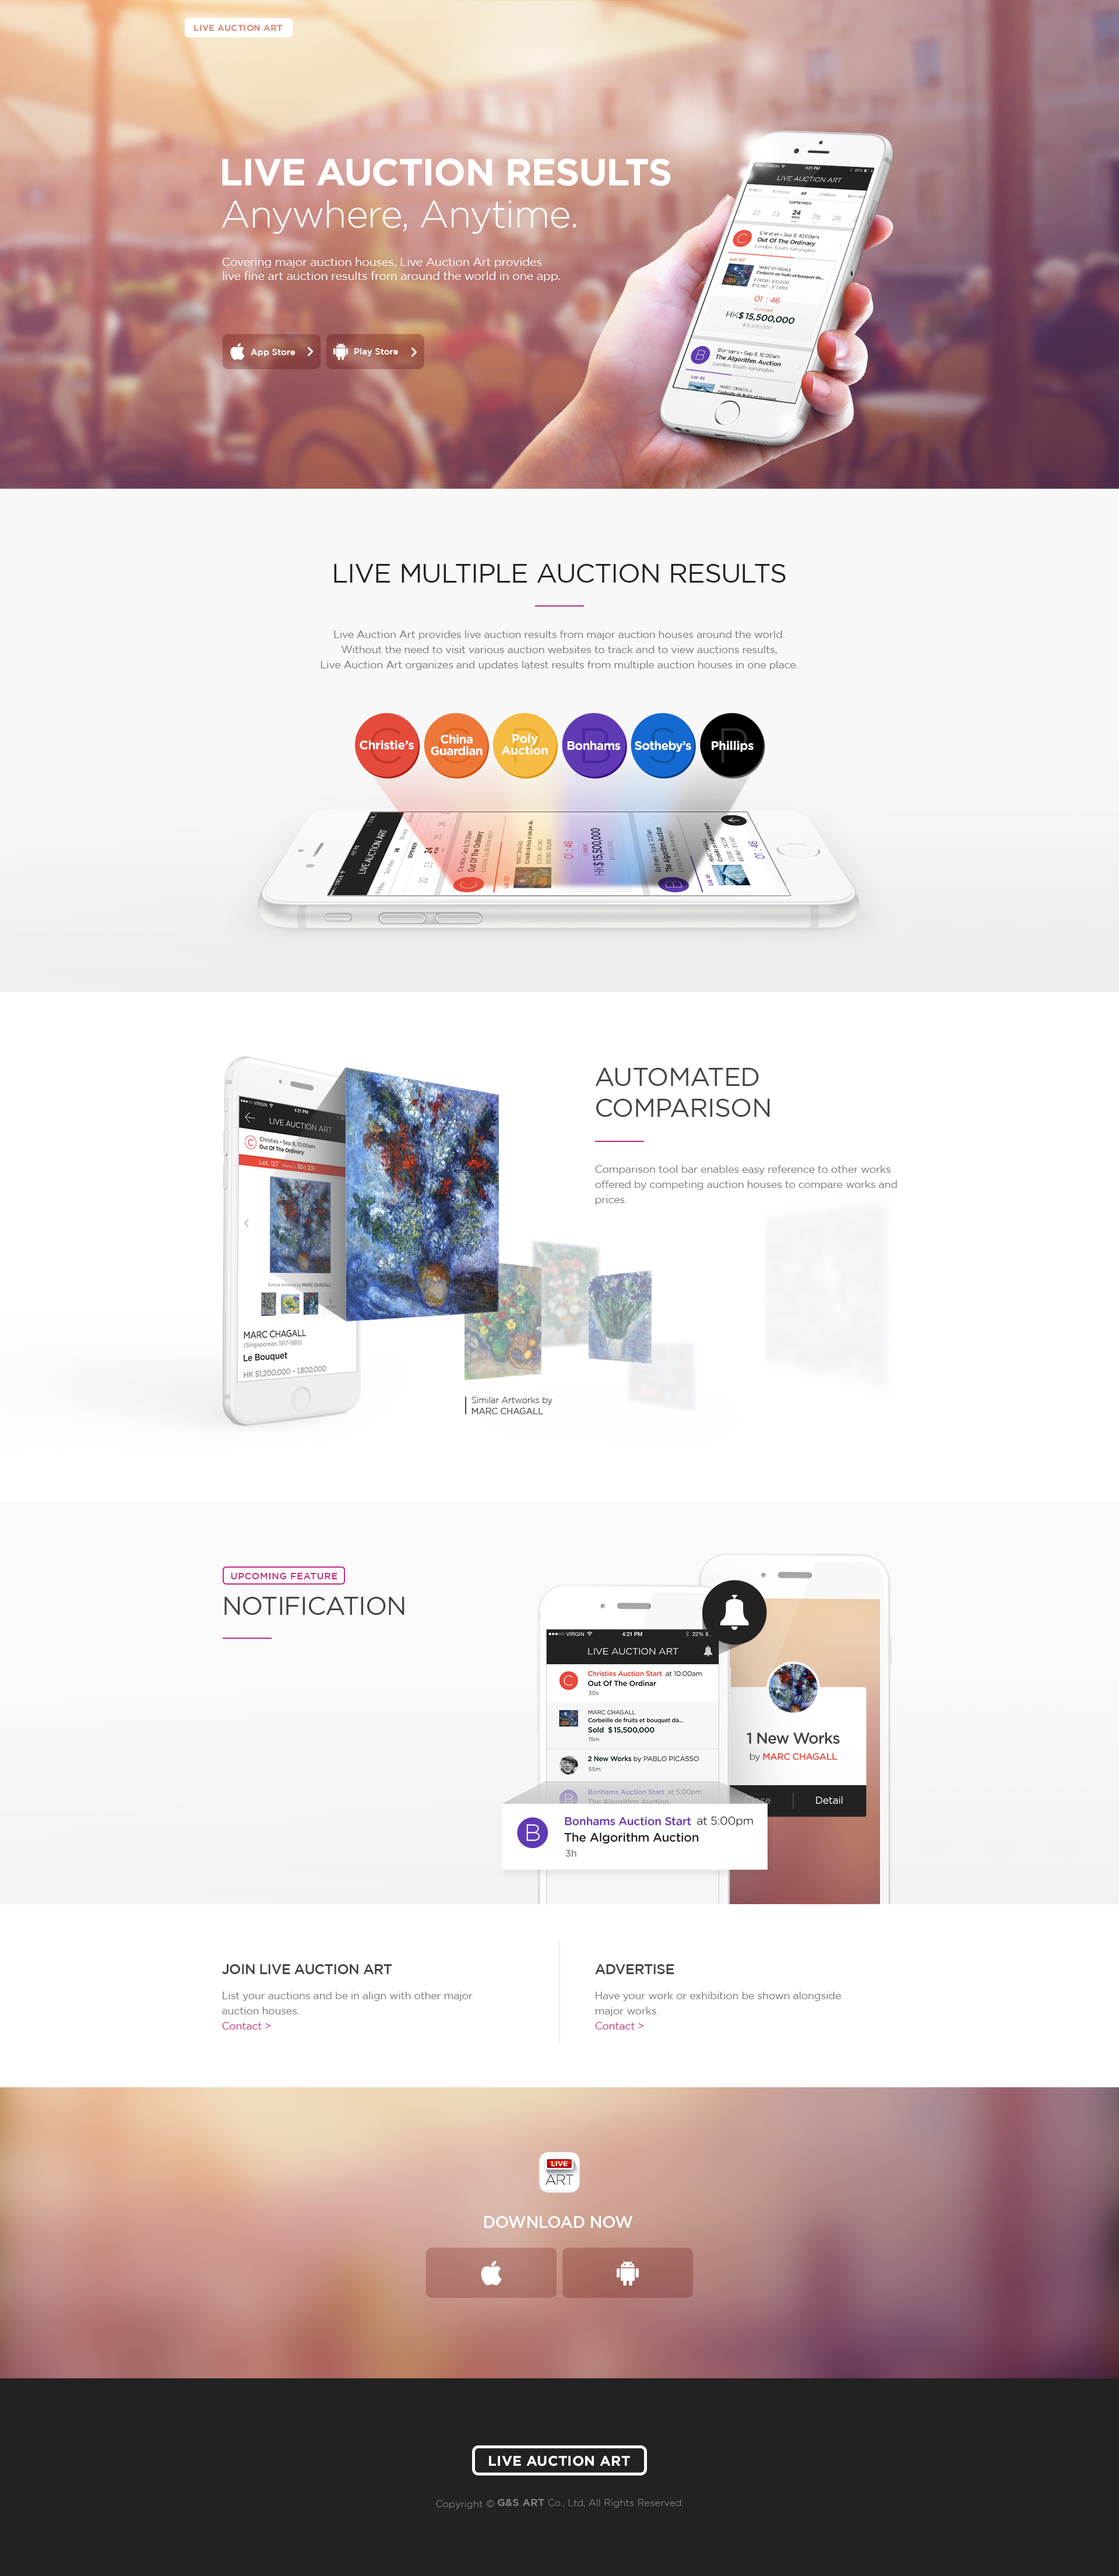
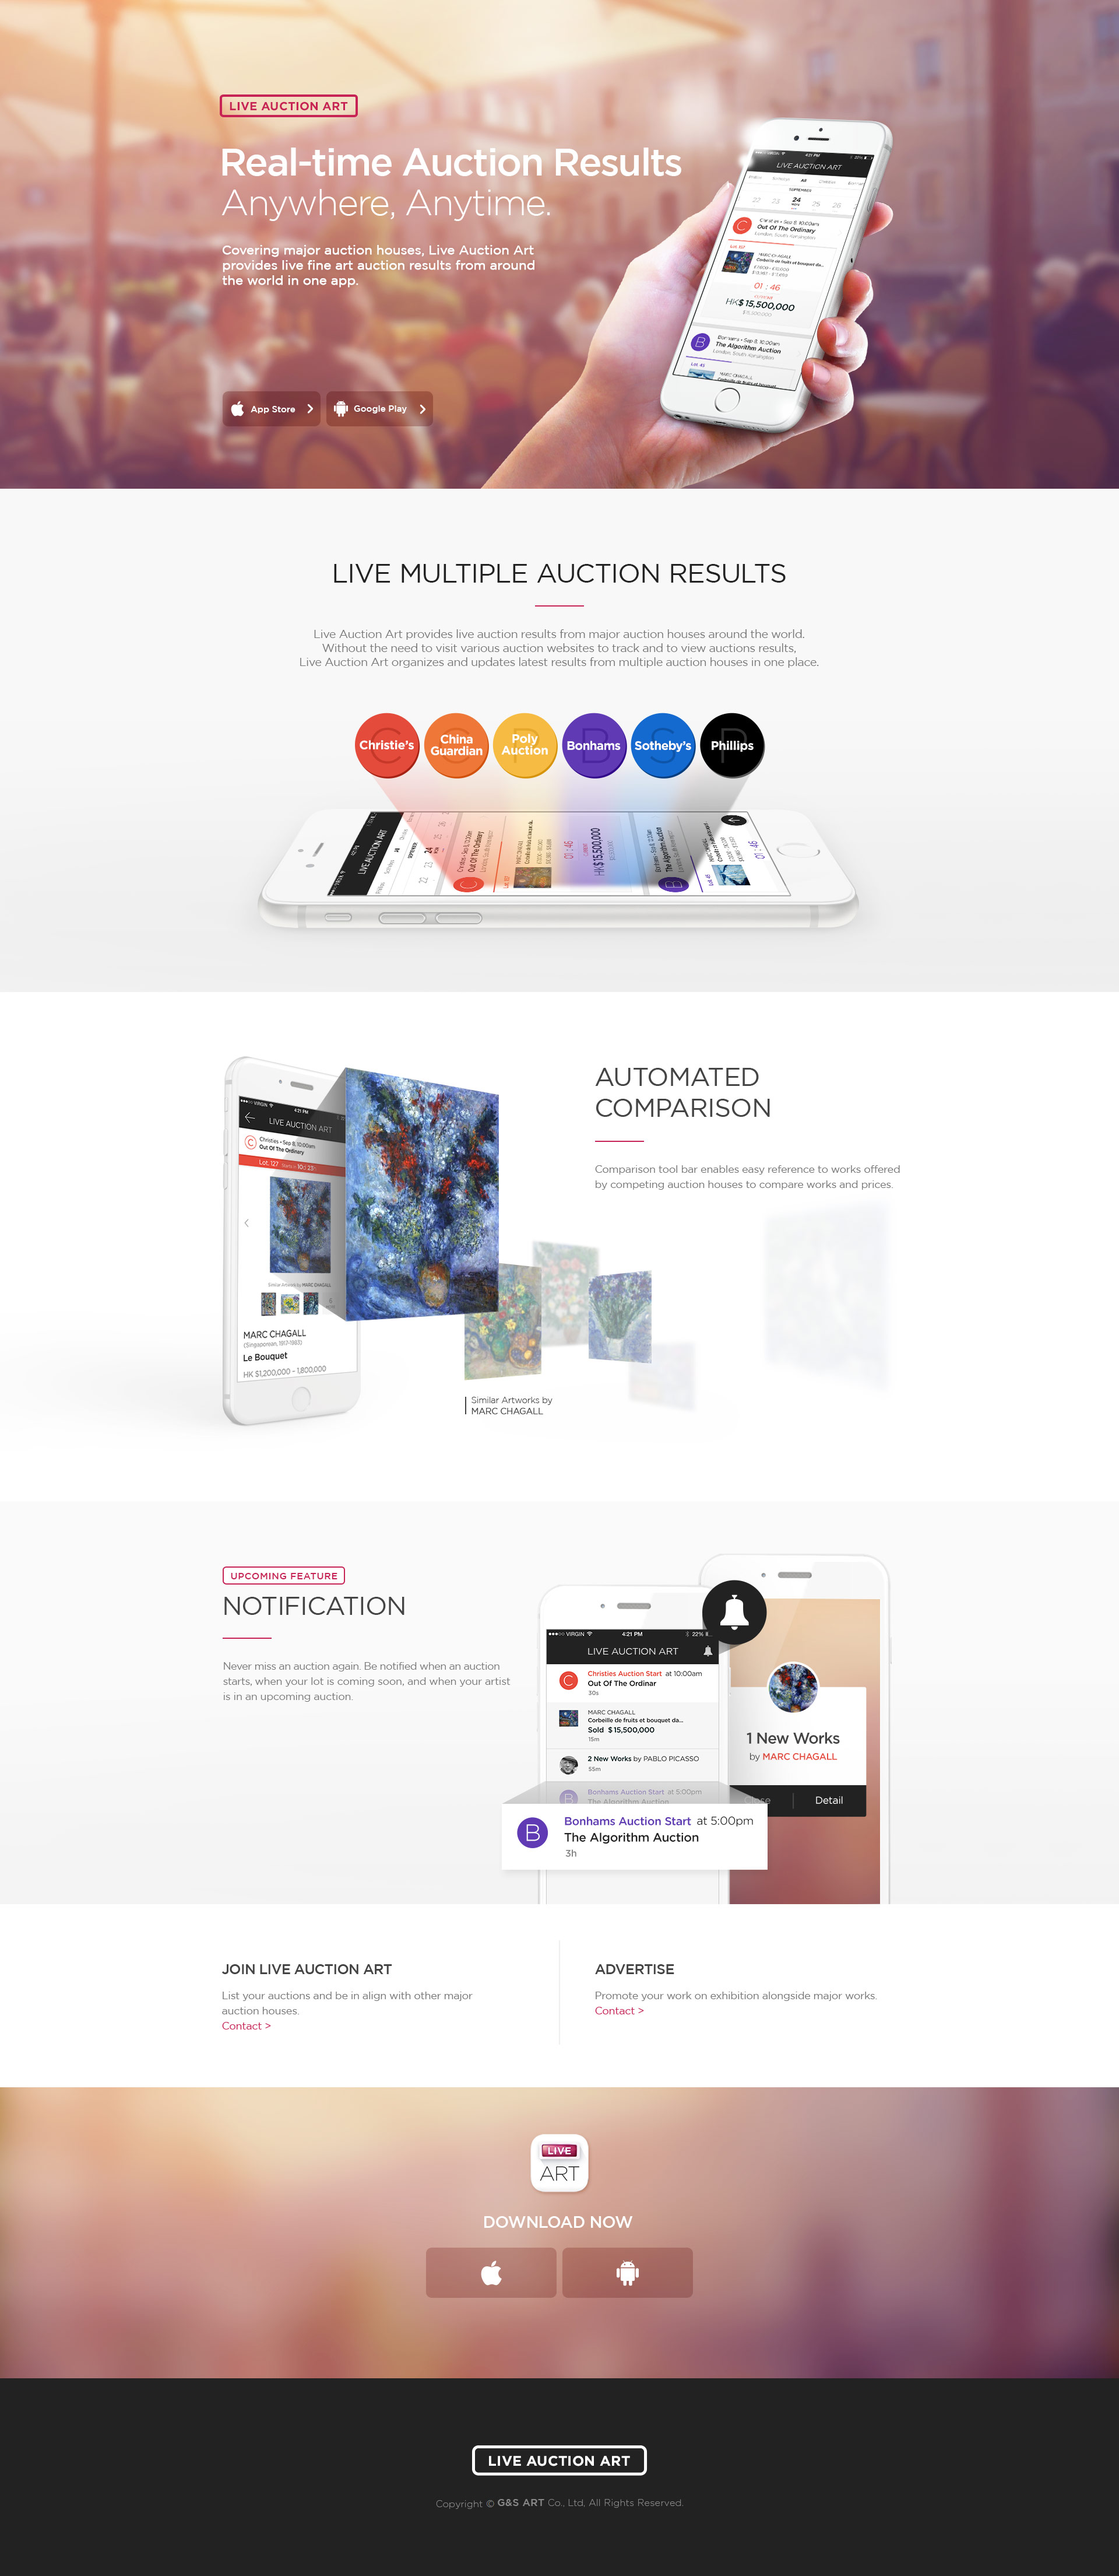
live auction art info

diff --git a/liveapp_info/live-auction-art/css/style.css b/liveapp_info/live-auction-art/css/style.css
@@ -25,27 +25,27 @@
     src:url('../fonts/gotham-bold.woff') format('woff'), local(arial);
 }
 
+/*body {*/
+    /*background: transparent url("../images/bg_temp.jpg") no-repeat center top;*/
+/*}*/
 
 .container-fluid {
     padding:0;
 }
 
-.logo,
-.logo:hover,
-.logo:active,
-.logo:visited {
+.logo {
+    font-family:'gt';
+    font-weight:700;
     display: inline-block;
-    margin: 30px 0;
-    padding: 10px 17px;
-    font-weight: bold;
-    font-size: 100%;
+    margin: 30px 0 50px 0;
+    padding: 2px 12px;
+    font-size: 20px;
     text-transform: uppercase;
     text-decoration: none;
-    color: #D48C78;
-    background-color: #FFFFFF;
-    border-color: #FFFFFF;
+    color: #c72355;
+    border: 4px solid #c72355;
     box-sizing: border-box;
-    border-radius: 4px;
+    border-radius: 6px;
 }
 
 .info-summary-wide {
@@ -79,14 +79,13 @@
     line-height: 40px;
     font-weight:700;
     letter-spacing: 0;
-    text-transform: uppercase;
 }
 
 .info-summary .context .description {
     margin-top: 20px;
     font-weight:400;
-    font-size: 20px;
-    line-height: 25px;
+    font-size: 22px;
+    line-height: 26px;
     color: rgba(0,0,0,0.5);
 }
 
@@ -193,7 +192,7 @@
     width: 800px;
     color: #777;
     font-weight:400;
-    font-size: 18px;
+    font-size: 20px;
     line-height: 26px;
     text-shadow: none;
     letter-spacing: -0.5px;
@@ -237,7 +236,7 @@
     margin: 0 auto;
     color: #777;
     font-weight:400;
-    font-size: 18px;
+    font-size: 20px;
     line-height: 26px;
     text-shadow: none;
     letter-spacing: -0.5px;
@@ -284,7 +283,7 @@
     margin: 0 auto;
     color: #777;
     font-weight:400;
-    font-size: 18px;
+    font-size: 20px;
     line-height: 26px;
     text-shadow: none;
     letter-spacing: -0.5px;
@@ -352,7 +351,7 @@
     margin: 0 auto;
     color: #777;
     font-weight:400;
-    font-size: 18px;
+    font-size: 20px;
     line-height: 26px;
     text-shadow: none;
     letter-spacing: -0.5px;
@@ -363,7 +362,7 @@
     margin: 0;
     color: #c72355;
     font-weight:400;
-    font-size: 18px;
+    font-size: 20px;
     line-height: 26px;
     text-shadow: none;
     letter-spacing: -0.5px;
@@ -461,10 +460,7 @@
     padding: 90px 0 120px 0;
 }
 
-.logo-type2,
-.logo-type2:hover,
-.logo-type2:active,
-.logo-type2:visited {
+.logo-type2 {
     display: inline-block;
     margin: 30px 0 0 0;
     padding: 6px 30px;
@@ -600,15 +596,16 @@
 
     .info-summary {
         background-size: auto;
-        padding-bottom: 270px;
+        padding-bottom: 130px;
     }
     .info-summary .context {
         margin-top: 154px;
+        font-size: 28px;
     }
 
     .info-summary .context .title {
         font-weight:200;
-        font-size: 65px;
+        font-size: 63px;
         line-height: 76px;
         text-shadow: none;
     }
@@ -620,12 +617,14 @@
     }
 
     .info-summary .context .description {
+        font-size: 22px;
+        line-height: 30px;
         margin-top: 28px;
         color: #fff;
     }
 
     .download {
-        margin-top: 30px;
+        margin-top: 120px;
     }
 
     .btn-type1,

diff --git a/liveapp_info/live-auction-art/index.html b/liveapp_info/live-auction-art/index.html
@@ -14,12 +14,10 @@
 <body>
 <div class="container-fluid info-summary-wide">
     <div class="container info-summary">
-        <div>
-            <a href="#" class="logo">Live Auction Art</a>
-        </div>
         <div class="context">
+            <span class="logo">Live Auction Art</span>
             <p class="title">
-                <strong>Live Auction Results</strong> Anywhere, Anytime.
+                <strong>Real-time Auction Results</strong> Anywhere, Anytime.
             </p>
             <p class="description">
                 Covering major auction houses, Live Auction Art provides
@@ -33,7 +31,7 @@
                 </button>
                 <button class="btn-type1 playstore">
                     <span class="icon"></span>
-                    <span class="text">Play Store</span>
+                    <span class="text">Google Play</span>
                     <span class="caret"></span>
                 </button>
             </div>
@@ -63,7 +61,7 @@
                 Automated Comparison
             </p>
             <p class="description">
-                Comparison tool bar enables easy reference to other works
+                Comparison tool bar enables easy reference to works
                 offered by competing auction houses to compare works and
                 prices.
 
@@ -107,8 +105,7 @@
                 ADVERTISE
             </p>
             <p class="description">
-                Have your work or exhibition be shown alongside
-                major works.
+                Promote your work on exhibition alongside major works.
             </p>
             <p class="buttons">
                 <a href="http://www.gandsart.com/#contact" class="link-type1" target="_blank">Contact ></a>
